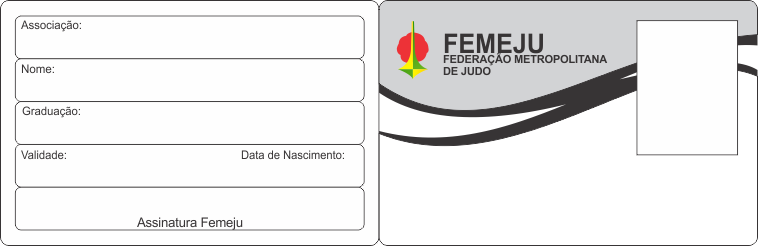
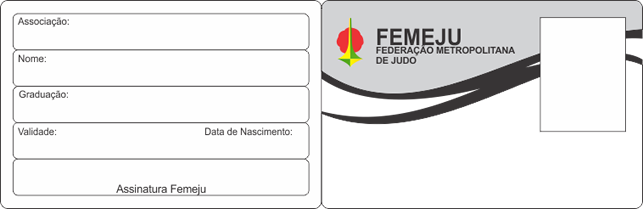
ajuste de tamanho da carteirinha

diff --git a/templates/portal/servicos/carteirinha.html b/templates/portal/servicos/carteirinha.html
@@ -24,23 +24,23 @@
 			background-color: {COR_CARTEIRINHA};
 			background-image: url(img/carteirinha.png);
 			background-repeat: no-repeat;
-			width: 758px;
-			height: 246px;
+			width: 643px;
+			height: 209px;
 		}
 		#nome {
-		    font-size: 1.3em;
+		    font-size: 1.1em;
 		    font-weight: bold;
 		    color:#000000;
-		    top:190px;
-		    left: 410px;
+		    top:160px;
+		    left: 350px;
 		}
         #qrcode{
-            top:170px;
-            left: 660px;
+            top:143px;
+            left: 555px;
         }
         .foto {
-            left: 645px;
-            top:29px;
+            left: 545px;
+            top:26px;
         }
     
 		.campo {
@@ -51,14 +51,15 @@
 			left: 30px;
 		}
 		.campo2 {
-			left: 155px;
+			left: 125px;
 		}
+		.campo3 {
+            left: 212px;
+        }
 		.campo7 {
             left: 259px;
         }
-		.campo3 {
-			left: 250px;
-		}
+		
 		.campo5 {
             left: 430px;
         }
@@ -66,19 +67,19 @@
             left: 675px;
         }
 		.linha1 {
-			top: 45px;
+			top: 40px;
 		}
 		.linha2 {
-			top: 90px;
+			top: 77px;
 		}
 		.linha3 {
-			top: 130px;
+			top: 115px;
 		}
 		.linha4 {
-            top: 175px;
+            top: 151px;
         }
         .linha5 {
-            top: 190px;
+            top: 156px;
         }
         .linha6 {
             top: 300px;
@@ -109,7 +110,7 @@
                      {NOME}
                 </div>
                 <div id="foto" class="foto campo">
-                    <img src="img/pessoas/{FOTO}" width="100" height="134">
+                    <img src="img/pessoas/{FOTO}" width="92" height="115">
                 </div>
             </div>
 
